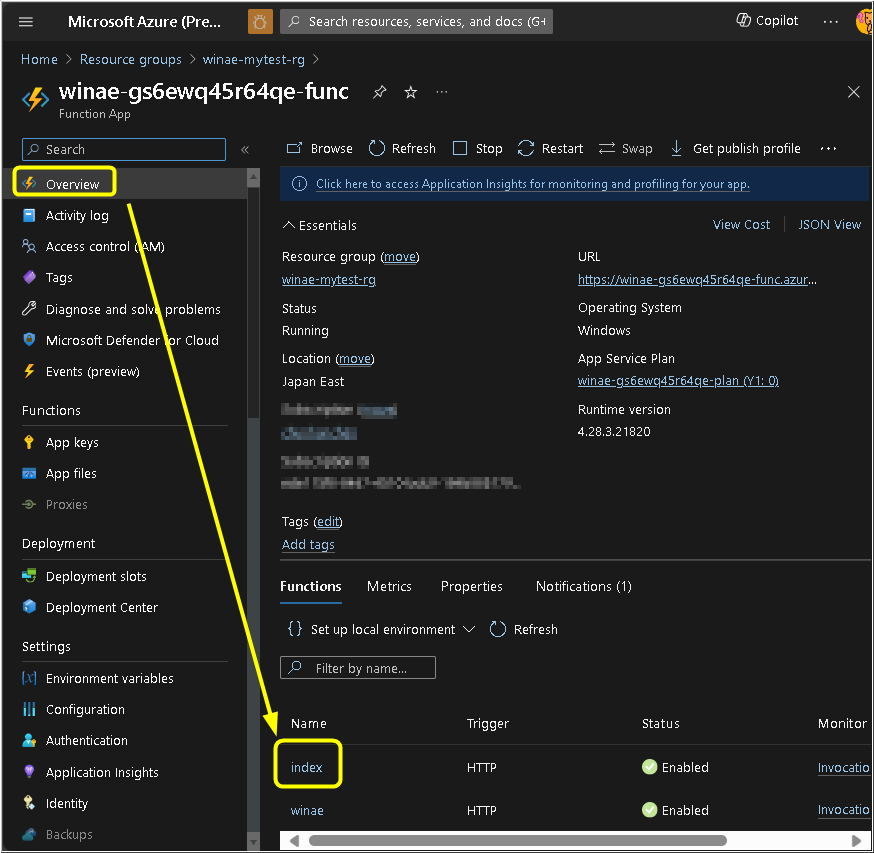
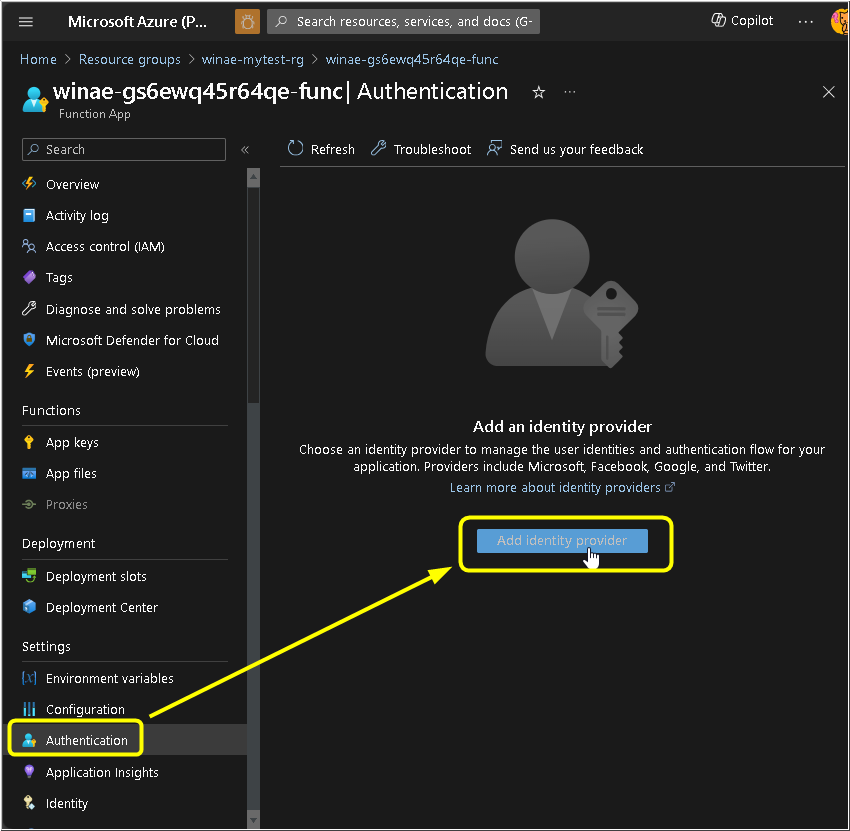
readme update

diff --git a/readme.md b/readme.md
@@ -30,64 +30,60 @@
 |      | ![Step 1-01](docs/images/1-01.png "Step 1-01")                                                                                                                                                                                                                                                        |
 |      | ![Step 1-02](docs/images/1-02.png "Step 1-02")                                                                                                                                                                                                                                                        |
 | 2    | [![Deploy to Azure](https://aka.ms/deploytoazurebutton)](https://portal.azure.com/#create/Microsoft.Template/uri/https%3A%2F%2Fraw.githubusercontent.com%2Ftheringe%2Fwinae%2Fmaster%2Fwinae.json)                                                                                                    |
-| 2-01   | Create a new "Resource Group" by specifying a name (e.g., winae-mytest-rg)                                                                                                                                                                                                                            |
+| 2-01 | Create a new "Resource Group" by specifying a name (e.g., winae-mytest-rg)                                                                                                                                                                                                                            |
 |      | ![Step 2-01](docs/images/2-01.png "Step 2-01")                                                                                                                                                                                                                                                        |
-| 2-02   | Select a proper "Region" nearby your workplace, Keep "Resource Prefix" and "Encryption Key" as default value                                                                                                                                                                                          |
+| 2-02 | Select a proper "Region" nearby your workplace, Keep "Resource Prefix" and "Encryption Key" as default value                                                                                                                                                                                          |
 |      | ![Step 2-02](docs/images/2-02.png "Step 2-02")                                                                                                                                                                                                                                                        |
-| 2-03   | Click "Create"                                                                                                                                                                                                                                                                                        |
+| 2-03 | Click "Create"                                                                                                                                                                                                                                                                                        |
 |      | ![Step 2-03](docs/images/2-03.png "Step 2-03")                                                                                                                                                                                                                                                        |
-| 2-04   | Wait for Azure around 10-20 minutes to allocate the related resources                                                                                                                                                                                                                                 |
+| 2-04 | Wait for Azure around 10-20 minutes to allocate the related resources                                                                                                                                                                                                                                 |
 |      | ![Step 2-04](docs/images/2-04.png "Step 2-04")                                                                                                                                                                                                                                                        |
-| 2-05   | Click "Go to resource group" once the deployment has been done                                                                                                                                                                                                                                        |
+| 2-05 | Click "Go to resource group" once the deployment has been done                                                                                                                                                                                                                                        |
 |      | ![Step 2-05](docs/images/2-05.png "Step 2-05")                                                                                                                                                                                                                                                        |
-| 2-06   | In the resource group, click the "Deployment Script" resource                                                                                                                                                                                                                                         |
+| 2-06 | In the resource group, click the "Deployment Script" resource                                                                                                                                                                                                                                         |
 |      | ![Step 2-06](docs/images/2-06.png "Step 2-06")                                                                                                                                                                                                                                                        |
-| 2-07   | In the "Overview" section from "Deployment Script" resource, copy all the information from "Logs" for further use (in 3-??), then close this resource and go back to resource group                                                                                                                   |
+| 2-07 | In the "Overview" section from "Deployment Script" resource, copy all the information from "Logs" for further use (in 3-??), then close this resource and go back to resource group                                                                                                                   |
 |      | ![Step 2-07](docs/images/2-07.png "Step 2-07")                                                                                                                                                                                                                                                        |
-| 2-08   | Back to resource group, click the "Function App" resource                                                                                                                                                                                                                                             |
+| 2-08 | Back to resource group, click the "Function App" resource                                                                                                                                                                                                                                             |
 |      | ![Step 2-08](docs/images/2-08.png "Step 2-08")                                                                                                                                                                                                                                                        |
-| 2-09   | In the "Deployment Center" section from "Function App" resource, select "GitHub" as the source                                                                                                                                                                                                        |
+| 2-09 | In the "Deployment Center" section from "Function App" resource, select "GitHub" as the source                                                                                                                                                                                                        |
 |      | ![Step 2-09](docs/images/2-09.png "Step 2-09")                                                                                                                                                                                                                                                        |
-| 2-10   | Then click "Authorize"                                                                                                                                                                                                                                                                                |
+| 2-10 | Then click "Authorize"                                                                                                                                                                                                                                                                                |
 |      | ![Step 2-10](docs/images/2-10.png "Step 2-10")                                                                                                                                                                                                                                                        |
-| 2-11   | You will be redirected to github.com and select your GitHub account to login                                                                                                                                                                                                                          |
+| 2-11 | You will be redirected to github.com and select your GitHub account to login                                                                                                                                                                                                                          |
 |      | ![Step 2-11](docs/images/2-11.png "Step 2-11")                                                                                                                                                                                                                                                        |
-| 2-12   | Then authorize Azure App Service by click the button                                                                                                                                                                                                                                                  |
+| 2-12 | Then authorize Azure App Service by click the button                                                                                                                                                                                                                                                  |
 |      | ![Step 2-12](docs/images/2-12.png "Step 2-12")                                                                                                                                                                                                                                                        |
-| 2-13   | Back to Azure Portal, now your GitHub account has been associated with your Azure account, select your GitHub account as the "Organization", "winae" as the "Repository", and "master" as the "Branch". Then click "save"                                                                             |
+| 2-13 | Back to Azure Portal, now your GitHub account has been associated with your Azure account, select your GitHub account as the "Organization", "winae" as the "Repository", and "master" as the "Branch". Then click "save"                                                                             |
 |      | ![Step 2-13](docs/images/2-13.png "Step 2-13")                                                                                                                                                                                                                                                        |
-| 2-14   | You are now deploying the control panel of WINAE to Function App, wait for Azure around 5-10 minutes to publish the code on server, you can periodically click "Refresh" to see the latest status                                                                                                     |
+| 2-14 | You are now deploying the control panel of WINAE to Function App, wait for Azure around 5-10 minutes to publish the code on server, you can got to "Actions" in your forked Github repo to see the latest status, once finished, you can see some Functions in the "Overview" section, click "index"  |
 |      | ![Step 2-14](docs/images/2-14.png "Step 2-14")                                                                                                                                                                                                                                                        |
-| 2-15   | After the success deployment, back to "Overview" section                                                                                                                                                                                                                                              |
+| 2-15 | In "Code + Test" section, click "Get function URL" and then copy the URL for further use (in 3-01), it is the URL of the WINAE control panel, finally go back to the "Function App" resource                                                                                                          |
 |      | ![Step 2-15](docs/images/2-15.png "Step 2-15")                                                                                                                                                                                                                                                        |
-| 2-16   | Now you can see some Functions in the "Overview" section, click "index"                                                                                                                                                                                                                               |
+| 2-16 | Again in the "Function App" resource, go to "Authentication" section and click "Add identity provider"                                                                                                                                                                                                |
 |      | ![Step 2-16](docs/images/2-16.png "Step 2-16")                                                                                                                                                                                                                                                        |
-| 2-17   | In "Code + Test" section, click "Get function URL" and then copy the URL for further use (in 3-01), it is the URL of the WINAE control panel, finally go back to the "Function App" resource                                                                                                          |
+| 2-17 | Select "Microsoft" as "Identity provider" and click "Add"                                                                                                                                                                                                                                             |
 |      | ![Step 2-17](docs/images/2-17.png "Step 2-17")                                                                                                                                                                                                                                                        |
-| 2-18   | Again in the "Function App" resource, go to "Authentication" section and click "Add identity provider"                                                                                                                                                                                                |
+| 2-18 | Wait for Azure around 1-2 minutes to issue the app registration, and click the target "identity provider" when ready                                                                                                                                                                                  |
 |      | ![Step 2-18](docs/images/2-18.png "Step 2-18")                                                                                                                                                                                                                                                        |
-| 2-19   | Select "Microsoft" as "Identity provider" and click "Add"                                                                                                                                                                                                                                             |
+| 2-19 | This is the page of the new created "App registration". In "Overview" section, copy "Application ID" and "Tenant ID" for further use (in 2-20), then go back to "Function App" resource                                                                                                               |
 |      | ![Step 2-19](docs/images/2-19.png "Step 2-19")                                                                                                                                                                                                                                                        |
-| 2-20   | Wait for Azure around 1-2 minutes to issue the app registration, and click the target "identity provider" when ready                                                                                                                                                                                  |
+| 2-20 | Again in the "Function App" resource, go to "Environment variables" section, create 2 variables: set "MICROSOFT_PROVIDER_AUTHENTICATION_APPID" and "MICROSOFT_PROVIDER_AUTHENTICATION_TENANTID" as the related value you have copied from 2-21, then click "Apply" and go back to resource group page |
 |      | ![Step 2-20](docs/images/2-20.png "Step 2-20")                                                                                                                                                                                                                                                        |
-| 2-21   | This is the page of the new created "App registration". In "Overview" section, copy "Application ID" and "Tenant ID" for further use (in 2-22), then go back to "Function App" resource                                                                                                               |
+| 2-21 | Again in the resource group, click the "Storage Account" resource                                                                                                                                                                                                                                     |
 |      | ![Step 2-21](docs/images/2-21.png "Step 2-21")                                                                                                                                                                                                                                                        |
-| 2-22   | Again in the "Function App" resource, go to "Environment variables" section, create 2 variables: set "MICROSOFT_PROVIDER_AUTHENTICATION_APPID" and "MICROSOFT_PROVIDER_AUTHENTICATION_TENANTID" as the related value you have copied from 2-21, then click "Apply" and go back to resource group page |
+| 2-22 | In the "Storage Account" resource, go to "File shares" section and click "winae-file"                                                                                                                                                                                                                 |
 |      | ![Step 2-22](docs/images/2-22.png "Step 2-22")                                                                                                                                                                                                                                                        |
-| 2-23   | Again in the resource group, click the "Storage Account" resource                                                                                                                                                        |
+| 2-23 | In "Overview" page, click "Connect", select "A" as "Drive Letter", click "Show Script", then copy the script for further use (in ?-??), finally close this page                                                                                                                                       |
 |      | ![Step 2-23](docs/images/2-23.png "Step 2-23")                                                                                                                                                                                                                                                        |
-| 2-24   | In the "Storage Account" resource, go to "File shares" section and click "winae-file"                                                                                                                                                                                                                 |
+| 2-24 | Go back to resource group page                                                                                                                                                                                                                                                                        |
 |      | ![Step 2-24](docs/images/2-24.png "Step 2-24")                                                                                                                                                                                                                                                        |
-| 2-25   | In "Overview" page, click "Connect", select "A" as "Drive Letter", click "Show Script", then copy the script for further use (in ?-??), finally close this page                                                                                                                                       |
+| 2-25 | Again in the resource group, click the "Access Control (IAM)" section, click "Role Assignments", click "Add" and select "Add role assignment"                                                                                                                                                         |
 |      | ![Step 2-25](docs/images/2-25.png "Step 2-25")                                                                                                                                                                                                                                                        |
-| 2-26   | Go back to resource group page                                                                                                                                                                                                                                                                        |
+| 2-26 | In role assignment page, click "Privileged administratior roles", select "Contributor", and click "Next"                                                                                                                                                                                              |
 |      | ![Step 2-26](docs/images/2-26.png "Step 2-26")                                                                                                                                                                                                                                                        |
-| 2-27   | Again in the resource group, click the "Access Control (IAM)" section, click "Role Assignments", click "Add" and select "Add role assignment"                                                                                                                                                         |
+| 2-27 | In this page, click "Select members", and search for "winae", choose the app registration which be created from 2-21, finally click "Next", "Select" and "Review + assign"                                                                                                                            |
 |      | ![Step 2-27](docs/images/2-27.png "Step 2-27")                                                                                                                                                                                                                                                        |
-| 2-28   | In role assignment page, click "Privileged administratior roles", select "Contributor", and click "Next"                                                                                                                                                                                              |
-|      | ![Step 2-28](docs/images/2-28.png "Step 2-28")                                                                                                                                                                                                                                                        |
-| 2-29   | In this page, click "Select members", and search for "winae", choose the app registration which be created from 2-21, finally click "Next", "Select" and "Review + assign"                                                                                                                            |
-|      | ![Step 2-29](docs/images/2-29.png "Step 2-29")                                                                                                                                                                                                                                                        |
 |      |                                                                                                                                                                                                                                                                                                       |
 |      |                                                                                                                                                                                                                                                                                                       |
 |      |                                                                                                                                                                                                                                                                                                       |
@@ -100,6 +96,5 @@
 |      |                                                                                                                                                                                                                                                                                                       |
 |      |                                                                                                                                                                                                                                                                                                       |
 |      |                                                                                                                                                                                                                                                                                                       |
-
 
 ### How To Use
